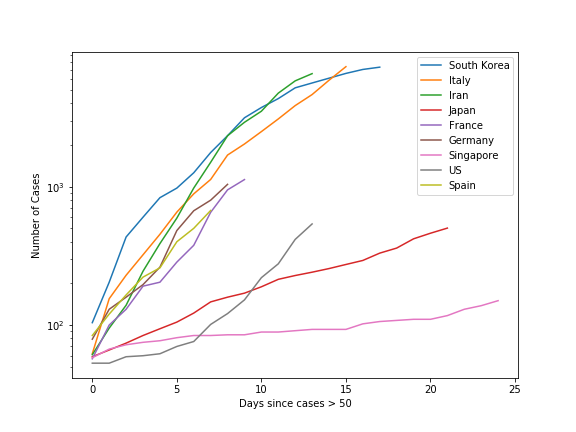
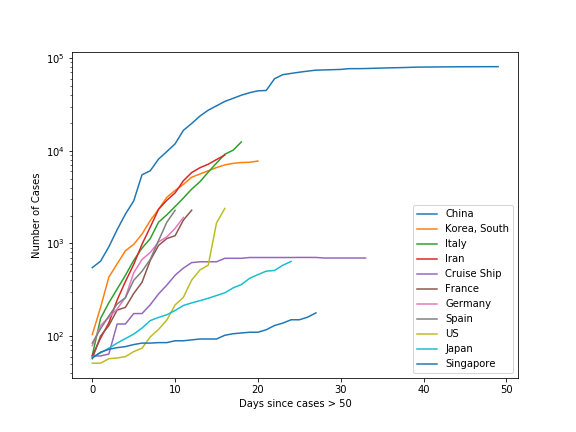
added function fto plot model

diff --git a/data_analyisis.py b/data_analyisis.py
@@ -12,17 +12,14 @@ data_url = ('https://raw.githubusercontent.com/CSSEGISandData/'
 df = pd.read_csv(data_url)
 per_day = df.groupby(['Country/Region']).sum()
 per_day['tot'] = per_day.drop(['Lat', 'Long'], axis=1).sum(axis=1)
-large = (per_day.loc[per_day['tot'].nlargest(11).index]
-         .drop(['Lat', 'Long', 'tot'], axis=1).drop(['Others']).T)
+large = (per_day.loc[per_day['tot'].index]
+         .drop(['Lat', 'Long', 'tot'],
+         axis=1, errors='ignore').drop(['Others'], errors='ignore').T)
 
 per_day['tot'].nlargest(11).index
-
 plt.figure(figsize=(8, 6))
 for land in large.columns:
     if not land == 'Mainland China':
-        X = sm.add_constant(large['Italy'][large['Italy'] > 50].values)
-        Y = np.array(range(len(X)))
-        model = sm.OLS(Y, X).fit()
         cases = large[land][large[land] > 50].values
         plt.plot(cases, label=land)
 plt.legend()
@@ -30,11 +27,26 @@ plt.ylabel('Number of Cases')
 plt.xlabel('Days since cases > 50')
 plt.yscale('log')
 plt.savefig('cases_per_land.png')
+plt.show()
 
-Y = np.log(large['Italy'][large['Italy'] > 50].values)
-X = sm.add_constant(np.array(range(len(X))))
-model = sm.OLS(Y, X).fit()
-print(model.summary())
-large['Italy'][large['Italy'] > 50].values[-2]/large['Italy'][large['Italy'] > 50].values[-3]
-# A=A0*exp(kt); k = log(A)/log(A0)
-plt.plot(51*np.exp(model.params[1]*np.arange(1, 30)))
+def predict_nation(nation, dasy_to_model=15, min_cases=50):
+    Y = np.log(large[nation][large[nation] > 50].values)
+    X = sm.add_constant(np.array(range(len(Y))))
+    model = sm.OLS(Y, X).fit()
+    print(model.summary())
+    italy = large[nation][large[nation] > min_cases].values
+    max_days = italy.shape[0] + dasy_to_model
+    modelled = (large[nation][large[nation] > min_cases]
+    .iloc[0]*np.exp(model.params[1]*np.arange(1, max_days)))
+    plt.title(nation)
+    plt.plot(modelled, label='Modello', linewidth=3.0)
+    plt.plot(italy, label='Dati Reali', linewidth=3.0)
+    plt.xticks(range(modelled.shape[0]))
+    plt.xlabel('Giorni Trascorsi')
+    plt.ylabel('Numero di contagiati')
+    plt.gca().yaxis.grid(True)
+    plt.legend()
+    plt.savefig('model_vs_relaity_{}.png'.format(nation))
+    return model
+
+model = predict_nation('Austria', 8, 5)
